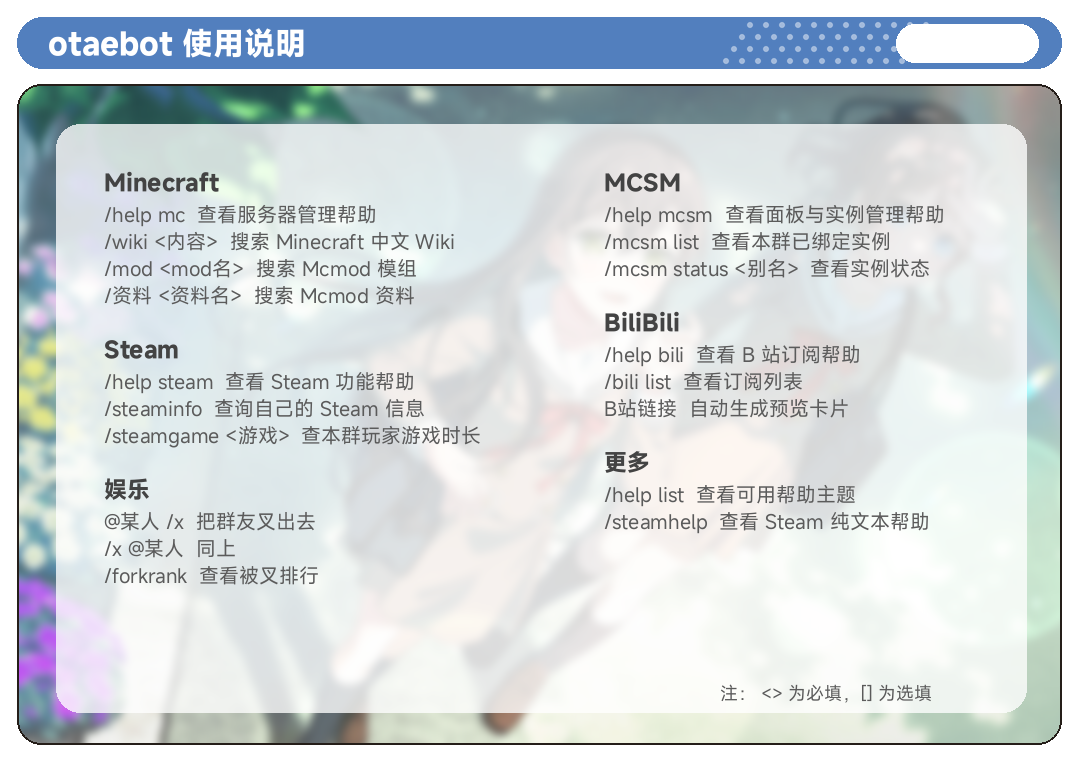
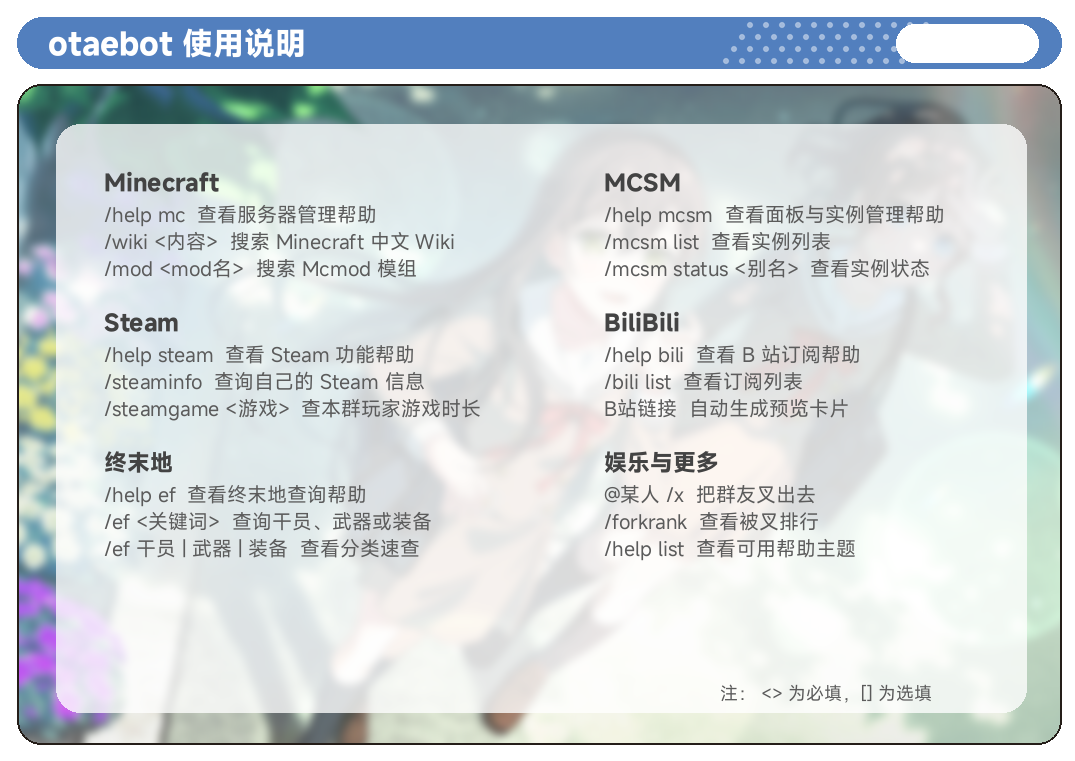
feat(help): add Endfield help topic

Changed region(s): [[0.0921, 0.3627, 0.4605, 0.7858], [0.5526, 0.5742, 0.8595, 0.7556], [0.6753, 0.3022, 0.8288, 0.3325]]

diff --git a/plugins/help_plugin/__init__.py b/plugins/help_plugin/__init__.py
@@ -18,6 +18,10 @@ TOPIC_MAP: dict[str, str] = {
     "minecraft": "minecraft",
     "bili":      "bili",
     "bilibili":  "bili",
+    "endfield":  "endfield",
+    "ef":        "endfield",
+    "zmd":       "endfield",
+    "终末地":    "endfield",
     "mcping":    "mcping",
     "ping":      "mcping",
     "p":         "mcping",